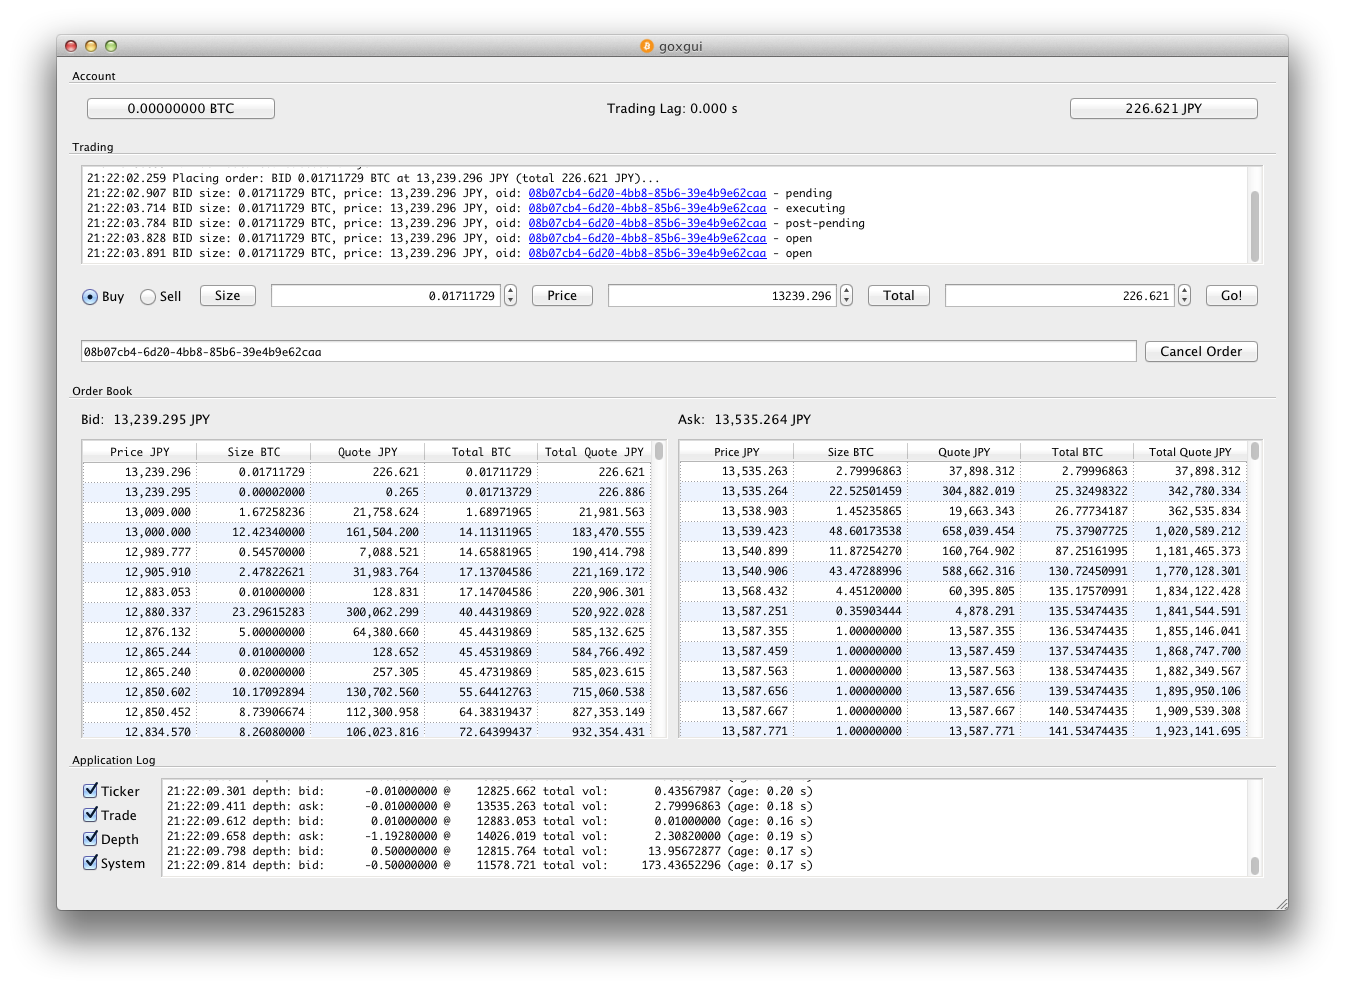
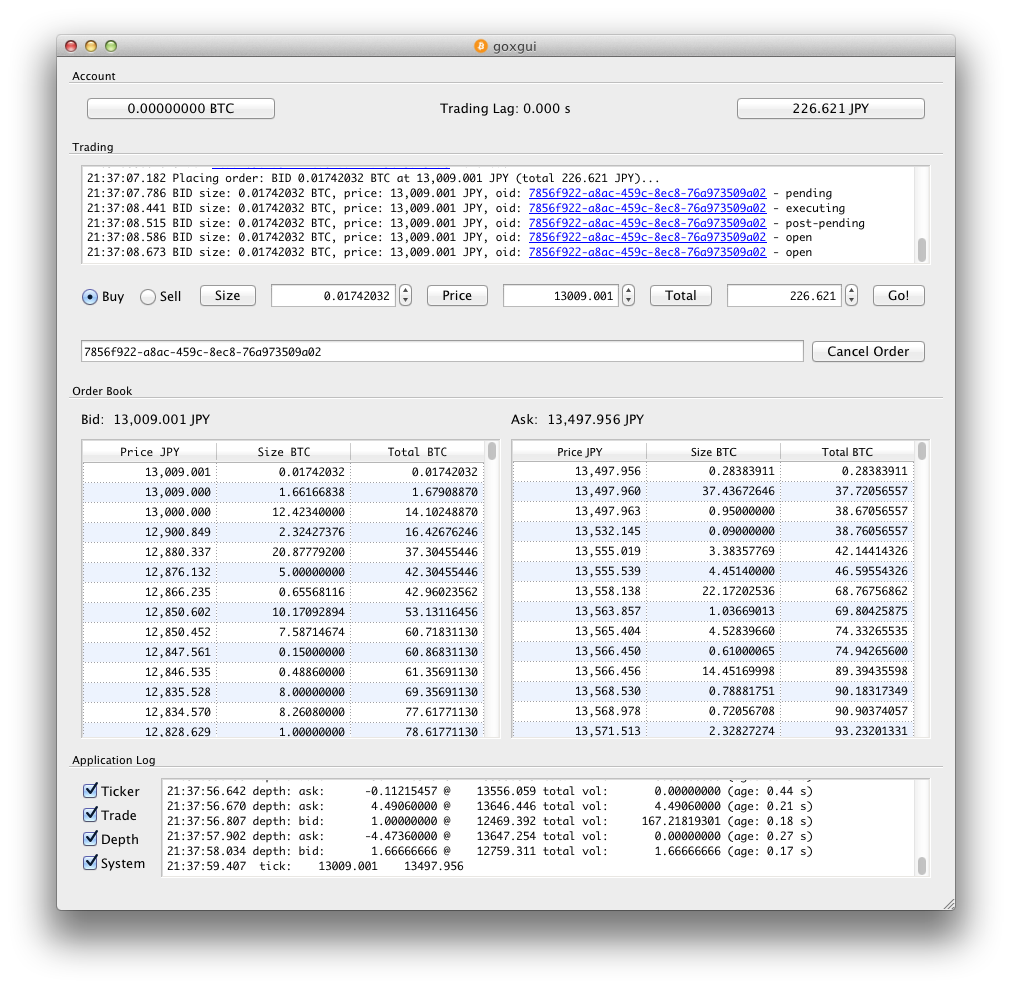
Rearrange columns for better readability

diff --git a/goxgui/ui/preferences_.py b/goxgui/ui/preferences_.py
@@ -2,7 +2,7 @@
 
 # Form implementation generated from reading ui file '/Users/user/git/goxgui/goxgui/ui/preferences.ui'
 #
-# Created: Mon May 27 19:51:47 2013
+# Created: Mon May 27 21:32:10 2013
 #      by: PyQt4 UI code generator 4.9.4
 #
 # WARNING! All changes made in this file will be lost!
@@ -109,24 +109,24 @@ class Ui_Preferences(object):
         self.tabOrderBook.setObjectName(_fromUtf8("tabOrderBook"))
         self.gridLayout_3 = QtGui.QGridLayout(self.tabOrderBook)
         self.gridLayout_3.setObjectName(_fromUtf8("gridLayout_3"))
-        spacerItem3 = QtGui.QSpacerItem(20, 164, QtGui.QSizePolicy.Minimum, QtGui.QSizePolicy.Expanding)
-        self.gridLayout_3.addItem(spacerItem3, 12, 1, 1, 1)
-        self.doubleSpinBoxOffset = QtGui.QDoubleSpinBox(self.tabOrderBook)
-        self.doubleSpinBoxOffset.setDecimals(0)
-        self.doubleSpinBoxOffset.setMaximum(999999.0)
-        self.doubleSpinBoxOffset.setObjectName(_fromUtf8("doubleSpinBoxOffset"))
-        self.gridLayout_3.addWidget(self.doubleSpinBoxOffset, 11, 1, 1, 1)
-        self.label_5 = QtGui.QLabel(self.tabOrderBook)
-        self.label_5.setAlignment(QtCore.Qt.AlignRight|QtCore.Qt.AlignTrailing|QtCore.Qt.AlignVCenter)
-        self.label_5.setObjectName(_fromUtf8("label_5"))
-        self.gridLayout_3.addWidget(self.label_5, 11, 0, 1, 1)
-        spacerItem4 = QtGui.QSpacerItem(40, 20, QtGui.QSizePolicy.Expanding, QtGui.QSizePolicy.Minimum)
-        self.gridLayout_3.addItem(spacerItem4, 1, 2, 1, 1)
         self.line_2 = QtGui.QFrame(self.tabOrderBook)
         self.line_2.setFrameShape(QtGui.QFrame.HLine)
         self.line_2.setFrameShadow(QtGui.QFrame.Sunken)
         self.line_2.setObjectName(_fromUtf8("line_2"))
-        self.gridLayout_3.addWidget(self.line_2, 9, 0, 1, 3)
+        self.gridLayout_3.addWidget(self.line_2, 10, 0, 1, 3)
+        spacerItem3 = QtGui.QSpacerItem(20, 164, QtGui.QSizePolicy.Minimum, QtGui.QSizePolicy.Expanding)
+        self.gridLayout_3.addItem(spacerItem3, 13, 1, 1, 1)
+        self.doubleSpinBoxOffset = QtGui.QDoubleSpinBox(self.tabOrderBook)
+        self.doubleSpinBoxOffset.setDecimals(0)
+        self.doubleSpinBoxOffset.setMaximum(999999.0)
+        self.doubleSpinBoxOffset.setObjectName(_fromUtf8("doubleSpinBoxOffset"))
+        self.gridLayout_3.addWidget(self.doubleSpinBoxOffset, 12, 1, 1, 1)
+        self.label_5 = QtGui.QLabel(self.tabOrderBook)
+        self.label_5.setAlignment(QtCore.Qt.AlignRight|QtCore.Qt.AlignTrailing|QtCore.Qt.AlignVCenter)
+        self.label_5.setObjectName(_fromUtf8("label_5"))
+        self.gridLayout_3.addWidget(self.label_5, 12, 0, 1, 1)
+        spacerItem4 = QtGui.QSpacerItem(40, 20, QtGui.QSizePolicy.Expanding, QtGui.QSizePolicy.Minimum)
+        self.gridLayout_3.addItem(spacerItem4, 1, 2, 1, 1)
         self.label_8 = QtGui.QLabel(self.tabOrderBook)
         self.label_8.setMinimumSize(QtCore.QSize(100, 0))
         self.label_8.setAlignment(QtCore.Qt.AlignRight|QtCore.Qt.AlignTrailing|QtCore.Qt.AlignVCenter)
@@ -134,7 +134,7 @@ class Ui_Preferences(object):
         self.gridLayout_3.addWidget(self.label_8, 4, 0, 1, 1)
         self.checkBoxTotalQuote = QtGui.QCheckBox(self.tabOrderBook)
         self.checkBoxTotalQuote.setObjectName(_fromUtf8("checkBoxTotalQuote"))
-        self.gridLayout_3.addWidget(self.checkBoxTotalQuote, 8, 1, 1, 1)
+        self.gridLayout_3.addWidget(self.checkBoxTotalQuote, 9, 1, 1, 1)
         self.checkBoxPrice = QtGui.QCheckBox(self.tabOrderBook)
         self.checkBoxPrice.setObjectName(_fromUtf8("checkBoxPrice"))
         self.gridLayout_3.addWidget(self.checkBoxPrice, 4, 1, 1, 1)
@@ -160,7 +160,7 @@ class Ui_Preferences(object):
         self.gridLayout_3.addWidget(self.labelColumns, 3, 1, 1, 2)
         self.checkBoxQuote = QtGui.QCheckBox(self.tabOrderBook)
         self.checkBoxQuote.setObjectName(_fromUtf8("checkBoxQuote"))
-        self.gridLayout_3.addWidget(self.checkBoxQuote, 6, 1, 1, 1)
+        self.gridLayout_3.addWidget(self.checkBoxQuote, 7, 1, 1, 1)
         self.label_7 = QtGui.QLabel(self.tabOrderBook)
         self.label_7.setMinimumSize(QtCore.QSize(100, 0))
         self.label_7.setAlignment(QtCore.Qt.AlignRight|QtCore.Qt.AlignTrailing|QtCore.Qt.AlignVCenter)
@@ -171,12 +171,12 @@ class Ui_Preferences(object):
         self.line.setFrameShadow(QtGui.QFrame.Sunken)
         self.line.setObjectName(_fromUtf8("line"))
         self.gridLayout_3.addWidget(self.line, 2, 0, 1, 3)
-        self.checkBoxTotal = QtGui.QCheckBox(self.tabOrderBook)
-        self.checkBoxTotal.setObjectName(_fromUtf8("checkBoxTotal"))
-        self.gridLayout_3.addWidget(self.checkBoxTotal, 7, 1, 1, 1)
         self.labelOffset = QtGui.QLabel(self.tabOrderBook)
         self.labelOffset.setObjectName(_fromUtf8("labelOffset"))
-        self.gridLayout_3.addWidget(self.labelOffset, 10, 1, 1, 1)
+        self.gridLayout_3.addWidget(self.labelOffset, 11, 1, 1, 1)
+        self.checkBoxTotalSize = QtGui.QCheckBox(self.tabOrderBook)
+        self.checkBoxTotalSize.setObjectName(_fromUtf8("checkBoxTotalSize"))
+        self.gridLayout_3.addWidget(self.checkBoxTotalSize, 6, 1, 1, 1)
         self.tabWidget.addTab(self.tabOrderBook, _fromUtf8(""))
         self.gridLayout.addWidget(self.tabWidget, 0, 0, 1, 1)
         self.horizontalLayout = QtGui.QHBoxLayout()
@@ -195,7 +195,7 @@ class Ui_Preferences(object):
         self.gridLayout.addLayout(self.horizontalLayout, 1, 0, 1, 1)
 
         self.retranslateUi(Preferences)
-        self.tabWidget.setCurrentIndex(1)
+        self.tabWidget.setCurrentIndex(2)
         QtCore.QObject.connect(self.buttonBox, QtCore.SIGNAL(_fromUtf8("accepted()")), Preferences.accept)
         QtCore.QObject.connect(self.buttonBox, QtCore.SIGNAL(_fromUtf8("rejected()")), Preferences.reject)
         QtCore.QMetaObject.connectSlotsByName(Preferences)
@@ -227,7 +227,7 @@ class Ui_Preferences(object):
         self.labelColumns.setText(QtGui.QApplication.translate("Preferences", "Choose the columns to display", None, QtGui.QApplication.UnicodeUTF8))
         self.checkBoxQuote.setText(QtGui.QApplication.translate("Preferences", "Quote", None, QtGui.QApplication.UnicodeUTF8))
         self.label_7.setText(QtGui.QApplication.translate("Preferences", "Grouping:", None, QtGui.QApplication.UnicodeUTF8))
-        self.checkBoxTotal.setText(QtGui.QApplication.translate("Preferences", "Total", None, QtGui.QApplication.UnicodeUTF8))
         self.labelOffset.setText(QtGui.QApplication.translate("Preferences", "Pips to add / subtract to proposed price when clicking order book", None, QtGui.QApplication.UnicodeUTF8))
+        self.checkBoxTotalSize.setText(QtGui.QApplication.translate("Preferences", "Total Size", None, QtGui.QApplication.UnicodeUTF8))
         self.tabWidget.setTabText(self.tabWidget.indexOf(self.tabOrderBook), QtGui.QApplication.translate("Preferences", "Order Book", None, QtGui.QApplication.UnicodeUTF8))
 

diff --git a/goxgui/preferences.py b/goxgui/preferences.py
@@ -19,8 +19,8 @@ class Preferences(QDialog):
 
     ORDERS_COLUMN_PRICE = 0
     ORDERS_COLUMN_SIZE = 1
-    ORDERS_COLUMN_QUOTE = 2
-    ORDERS_COLUMN_TOTAL = 3
+    ORDERS_COLUMN_TOTAL_SIZE = 2
+    ORDERS_COLUMN_QUOTE = 3
     ORDERS_COLUMN_TOTAL_QUOTE = 4
 
     __PASSPHRASE = 'fffuuuuuuu'
@@ -52,7 +52,7 @@ class Preferences(QDialog):
             'orders_column_{}'.format(Preferences.ORDERS_COLUMN_PRICE): 'True',
             'orders_column_{}'.format(Preferences.ORDERS_COLUMN_SIZE): 'True',
             'orders_column_{}'.format(Preferences.ORDERS_COLUMN_QUOTE): 'False', # @IgnorePep8
-            'orders_column_{}'.format(Preferences.ORDERS_COLUMN_TOTAL): 'True',
+            'orders_column_{}'.format(Preferences.ORDERS_COLUMN_TOTAL_SIZE): 'True',
             'orders_column_{}'.format(Preferences.ORDERS_COLUMN_TOTAL_QUOTE): 'False', # @IgnorePep8
             'key': '',
             'secret': '',
@@ -122,8 +122,8 @@ class Preferences(QDialog):
             Preferences.ORDERS_COLUMN_PRICE))
         self.__ui.checkBoxSize.setChecked(self.is_orders_column_enabled(
             Preferences.ORDERS_COLUMN_SIZE))
-        self.__ui.checkBoxTotal.setChecked(self.is_orders_column_enabled(
-            Preferences.ORDERS_COLUMN_TOTAL))
+        self.__ui.checkBoxTotalSize.setChecked(self.is_orders_column_enabled(
+            Preferences.ORDERS_COLUMN_TOTAL_SIZE))
         self.__ui.checkBoxQuote.setChecked(self.is_orders_column_enabled(
             Preferences.ORDERS_COLUMN_QUOTE))
         self.__ui.checkBoxTotalQuote.setChecked(self.is_orders_column_enabled(
@@ -140,7 +140,7 @@ class Preferences(QDialog):
             self.__ui.checkBoxPrice.isChecked())
         self.set_orders_column_enabled(Preferences.ORDERS_COLUMN_SIZE,
             self.__ui.checkBoxSize.isChecked())
-        self.set_orders_column_enabled(Preferences.ORDERS_COLUMN_TOTAL,
+        self.set_orders_column_enabled(Preferences.ORDERS_COLUMN_TOTAL_SIZE,
             self.__ui.checkBoxTotal.isChecked())
         self.set_orders_column_enabled(Preferences.ORDERS_COLUMN_QUOTE,
             self.__ui.checkBoxQuote.isChecked())

diff --git a/goxgui/model.py b/goxgui/model.py
@@ -58,20 +58,20 @@ class Model(QAbstractTableModel):
                 [self.__orders.get_volume(index), self.__base_currency])
 
         if preferences.is_orders_column_enabled(
+            Preferences.ORDERS_COLUMN_TOTAL_SIZE):
+
+            headers.append('Total {}'.format(
+                self.__base_currency.symbol))
+            getters.append(lambda index:
+                [self.__orders.get_total(index), self.__base_currency])
+
+        if preferences.is_orders_column_enabled(
             Preferences.ORDERS_COLUMN_QUOTE):
 
             headers.append('Quote {}'.format(
                 self.__quote_currency.symbol))
             getters.append(lambda index:
                 [self.__orders.get_quote(index), self.__quote_currency])
-
-        if preferences.is_orders_column_enabled(
-            Preferences.ORDERS_COLUMN_TOTAL):
-
-            headers.append('Total {}'.format(
-                self.__base_currency.symbol))
-            getters.append(lambda index:
-                [self.__orders.get_total(index), self.__base_currency])
 
         if preferences.is_orders_column_enabled(
             Preferences.ORDERS_COLUMN_TOTAL_QUOTE):
